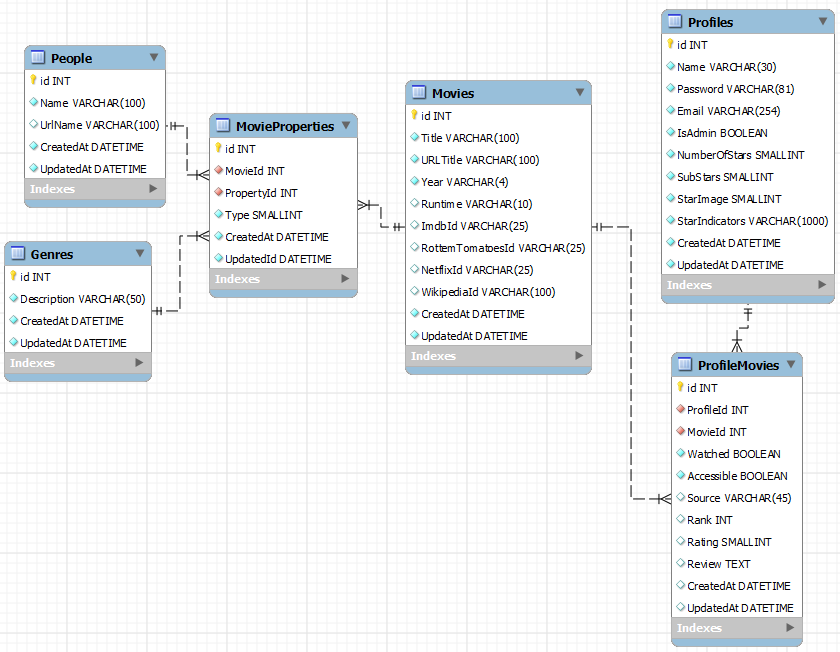
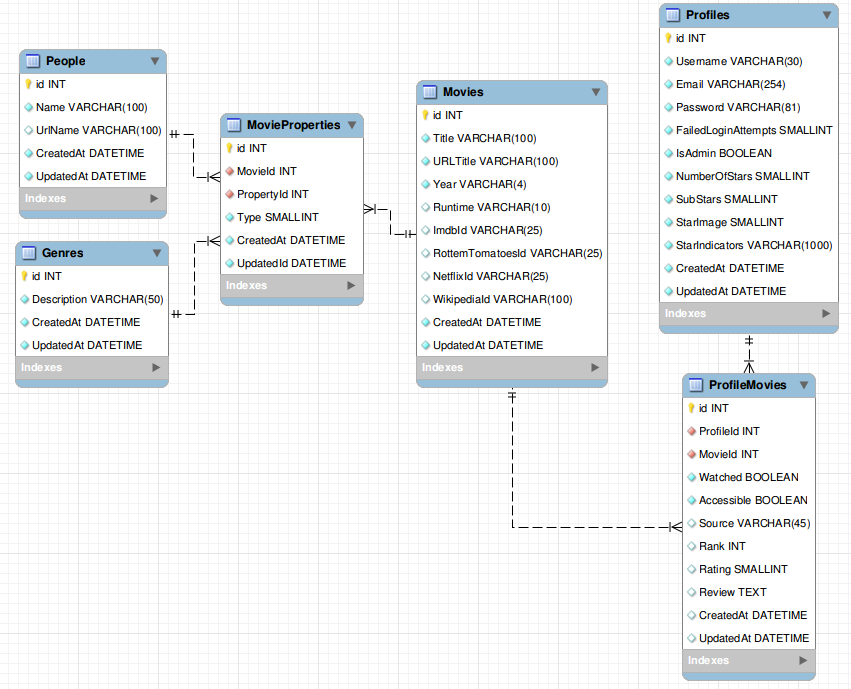
Add lockout support and fix email system

diff --git a/pref/webapp/templates/site/about.html b/pref/webapp/templates/site/about.html
@@ -6,6 +6,7 @@
 	{% include 'includes/header.html' %}
 	{% url webapp.views.site.disclaimers as disclaimers_url %}
 	{% url webapp.views.site.privacy as privacy_url %}
+	<p>Version 1.0</p>
 	<p>This website was created (and currently operated) by <a href="http://www.andyhampton.com" target="_blank">me</a> as a way to supplement countless spreadsheets and individual programs to keep track of the things I love across many mediums. You can find more information about the site and contribute by going to <a href="https://github.com/ahampt/Pref" target="_blank">github</a>.</p>
 	<p>Please make comments and suggestions as you use the site by clicking the appropriate buttons on pages when you see them as I am building this site purely to suffice my own needs until people speak up. Thanks</p>
 	<p>Please read the <a href="{{disclaimers_url}}">disclaimers</a> and <a href="{{privacy_url}}">privacy policy</a> before using the site. Be aware that after 90 days of inactivity, user data is no longer safe and may be deleted or altered unintentionally.</p>
@@ -18,6 +19,7 @@
 		<li><a href="http://twitter.github.com/bootstrap/" target="_blank">Bootstrap</a> - CSS library that makes this site a pleasure to use</a></li>
 		<li><a href="http://www.nickstakenburg.com/projects/starbox/" target="_blank">Starbox</a> - Star rating system that just works</li>
 		<li><a href="http://www.webfaction.com/" target="_blank">Webfaction</a> - Web hosting</li>
+		<li><a href="http://aws.amazon.com/" target="_blank">Amazon</a> - CDN</li>
 		<li><a href="http://www.dhtmlgoodies.com/index.html" target="_blank">DHTML Goodies</a> - Script for drag and drop tools
 		<li>Javascript libraries from <a href="http://jquery.com/" target="_blank">JQuery</a>, <a href="http://www.prototypejs.org/" target="_blank">Prototype</a>, and <a href="http://script.aculo.us/" target="_blank">Scriptaculous</a> for animations of any kind</li>
 		<li>API's from <a href="http://www.imdb.com/" target="_blank">IMDb</a> (API <a href="http://imdbapi.com/" target="_blank">here</a>), <a href="http://www.rottentomatoes.com/" target="_blank">Rotten Tomatoes</a>, and <a href="http://www.netflix.com/" target="_blank">Netflix</a> for all basic data gathering</li>

diff --git a/pref/webapp/templates/profile/login.html b/pref/webapp/templates/profile/login.html
@@ -8,6 +8,10 @@
 		<div class="alert alert-error">
 			Username or Password not correct
 		</div>
+	{% elif lockout_error %}
+		<div class="alert alert-error">
+			Account locked, contact administrator
+		</div>
 	{% endif %}
 	{% url webapp.views.profile.login as login_url %}
 	<form class="well" action="{{login_url}}" method="post"> {% csrf_token %}

diff --git a/pref/webapp/views/profile.py b/pref/webapp/views/profile.py
@@ -32,6 +32,7 @@ def register(request):
 			*****************************************************************************'''
 			# Defaults
 			profile = Profiles()
+			profile.FailedLoginAttempts = 0
 			profile.NumberOfStars = 4
 			profile.SubStars = 2
 			profile.StarImage = 0
@@ -139,8 +140,9 @@ def login(request):
 			# Don't waste time validating rediculously sized password strings
 			text_password = request.POST.get('password')
 			# Use check_password to compare hashed password correctly
-			if len(text_password) < 1000 and check_password(text_password, profile.Password):
+			if profile.FailedLoginAttempts < settings.MAX_LOGIN_ATTEMPTS and len(text_password) < 1000 and check_password(text_password, profile.Password):
 				login_command(request, profile)
+				profile.FailedLoginAttempts = 0
 				profile.save()
 				profile_logger.info(profile.Username + ' Login Success')
 				set_msg(request, 'Welcome back ' + profile.Username + '!', 'You have successfully logged in.', 3)
@@ -148,15 +150,23 @@ def login(request):
 			# Redirect to login if currently logged in (as different profile) or to access otherwise
 			else:
 				profile_logger.info(profile.Username + ' Login Failure')
+				profile.FailedLoginAttempts = profile.FailedLoginAttempts + 1 if profile.FailedLoginAttempts < settings.MAX_LOGIN_ATTEMPTS else profile.FailedLoginAttempts
+				profile.save()
 				logged_in_profile_id = request.session.get('auth_profile_id')
 				logged_in_profile_username = request.session.get('auth_profile_username')
 				logged_in_profile_admin = request.session.get('admin')
 				if not logged_in_profile_id:
 					access = request.session.get('auth_access')
 					if not access:
-						set_msg(request, 'Login Failed!', 'Username or Password not correct', 4)
+						if profile.FailedLoginAttempts < settings.MAX_LOGIN_ATTEMPTS:
+							set_msg(request, 'Login Failed!', 'Username or Password not correct', 5)
+						else:
+							set_msg(request, 'Login Failed!', 'Account locked out. Contact system administrator to unlock account.', 5)
 						return redirect('webapp.views.site.access')
-				return render_to_response('profile/login.html', {'header' : generate_header_dict(request, 'Login'), 'error' : True}, RequestContext(request))
+				if profile.FailedLoginAttempts < settings.MAX_LOGIN_ATTEMPTS:
+					return render_to_response('profile/login.html', {'header' : generate_header_dict(request, 'Login'), 'error' : True}, RequestContext(request))
+				else:
+					return render_to_response('profile/login.html', {'header' : generate_header_dict(request, 'Login'), 'lockout_error' : True}, RequestContext(request))
 		else:
 			'''*****************************************************************************
 			Display login page if logged in or have access otherwise back to access
@@ -326,7 +336,7 @@ def view(request, username):
 				Send suggestion/comment/correction email and redirect to profile page
 				PATH: webapp.views.profile.view username; METHOD: post; PARAMS: get - suggestion; MISC: none;
 				*****************************************************************************'''
-				email_from = profile.Email if profile.Email else settings.DEFAULT_FROM_EMAIL
+				email_from = settings.DEFAULT_FROM_EMAIL
 				email_subject = 'Profile: ' + str(profile.Username) + ' Id: ' + str(profile.id)
 				email_message = request.POST.get('message') if request.POST.get('message') else None
 				set_msg(request, 'Thank you for your feedback!', 'We have recieved your suggestion/comment/correction and will react to it appropriately.', 3)

diff --git a/pref/webapp/views/site.py b/pref/webapp/views/site.py
@@ -65,13 +65,12 @@ def home(request):
 			Error page will submit user email here (could be delegated to an error function)
 			PATH: webapp.views.site.home; METHOD: post; PARAMS: get - error; MISC: none;
 			*****************************************************************************'''
-			profile, email_from, email_subject = None, 'Anonymous', 'Error'
+			profile, email_from, email_subject = None, settings.DEFAULT_FROM_EMAIL, 'Error'
 			try:
 				profile = Profiles.objects.get(id=logged_in_profile_id)
 			except Exception:
 				pass
 			if profile:
-				email_from = profile.Email if profile.Email else settings.DEFAULT_FROM_EMAIL
 				email_subject = 'Profile: ' + str(profile.Username) + ' Id: ' + str(profile.id) + ' Error'
 			email_message = request.POST.get('message') if request.POST.get('message') else None
 			set_msg(request, 'Thank you for your feedback!', 'We have recieved your input and will react to it appropriately.', 3)
@@ -124,13 +123,13 @@ def about(request):
 				PATH: webapp.views.site.about; METHOD: post; PARAMS: none; MISC: none;
 				*****************************************************************************'''
 				profile = Profiles.objects.get(id=logged_in_profile_id)
-				email_from = profile.Email if profile.Email else ''
+				email_from = settings.DEFAULT_FROM_EMAIL
 				email_subject = 'Profile: ' + str(profile.Username) + ' Id: ' + str(profile.id) + ' 404'
 				email_message = request.POST.get('message') if request.POST.get('message') else None
 				set_msg(request, 'Thank you for your feedback!', 'We have recieved your suggestion/comment/correction and will react to it appropriately.', 3)
 				if email_message:
 					# send email
-					pass
+					send_mail(email_subject, email_message, email_from, [settings.DEFAULT_TO_EMAIL], fail_silently=False)
 				else:
 					pass
 				return redirect('webapp.views.site.home')

diff --git a/pref/webapp/views/property.py b/pref/webapp/views/property.py
@@ -89,7 +89,7 @@ def person(request, urlname):
 				PATH: webapp.views.property.person urlname; METHOD: post; PARAMS: get - suggestion; MISC: none;
 				*****************************************************************************'''
 				profile = Profiles.objects.get(id=logged_in_profile_id)
-				email_from = profile.Email if profile.Email else settings.DEFAULT_FROM_EMAIL
+				email_from = settings.DEFAULT_FROM_EMAIL
 				email_subject = 'Profile: ' + str(profile.Username) + ' Id: ' + str(profile.id) + ' PersonId: ' + str(person.id)
 				email_message = request.POST.get('message') if request.POST.get('message') else None
 				set_msg(request, 'Thank you for your feedback!', 'We have recieved your suggestion/comment/correction and will react to it appropriately.', 3)
@@ -295,7 +295,7 @@ def genre(request, description):
 				PATH: webapp.views.property.genre description; METHOD: post; PARAMS: get - suggestion; MISC: none;
 				*****************************************************************************'''
 				profile = Profiles.objects.get(id=logged_in_profile_id)
-				email_from = profile.Email if profile.Email else settings.DEFAULT_FROM_EMAIL
+				email_from = settings.DEFAULT_FROM_EMAIL
 				email_subject = 'Profile: ' + str(profile.Username) + ' Id: ' + str(profile.id) + ' GenreId: ' + str(genre.id)
 				email_message = request.POST.get('message') if request.POST.get('message') else None
 				set_msg(request, 'Thank you for your feedback!', 'We have recieved your suggestion/comment/correction and will react to it appropriately.', 3)

diff --git a/pref/webapp/views/movie.py b/pref/webapp/views/movie.py
@@ -335,7 +335,7 @@ def view(request, urltitle):
 				PATH: webapp.views.movie.view urltitle; METHOD: post; PARAMS: get - suggestion; MISC: none;
 				*****************************************************************************'''
 				profile = Profiles.objects.get(id=logged_in_profile_id)
-				email_from = profile.Email if profile.Email else settings.DEFAULT_FROM_EMAIL
+				email_from = settings.DEFAULT_FROM_EMAIL
 				email_subject = 'Profile: ' + str(profile.Username) + ' Id: ' + str(profile.id) + ' MovieId: ' + str(movie.id)
 				email_message = request.POST.get('message') if request.POST.get('message') else None
 				set_msg(request, 'Thank you for your feedback!', 'We have recieved your suggestion/comment/correction and will react to it appropriately.', 3)

diff --git a/pref/webapp/models.py b/pref/webapp/models.py
@@ -7,6 +7,7 @@ class Profiles(models.Model):
 	Username = models.CharField(max_length=30,unique=True)
 	Email = models.CharField(max_length=254)
 	Password = models.CharField(max_length=81)
+	FailedLoginAttempts = models.PositiveSmallIntegerField()
 	IsAdmin = models.BooleanField()
 	NumberOfStars = models.PositiveSmallIntegerField()
 	SubStars = models.PositiveSmallIntegerField()

diff --git a/pref/settings.py b/pref/settings.py
@@ -7,6 +7,8 @@ TEMPLATE_DEBUG = DEBUG
 
 ACCESS_PASSWORD = 'movies'
 
+MAX_LOGIN_ATTEMPTS = 25
+
 DATABASES = {
 	'default': {
 		'ENGINE': 'django.db.backends.mysql',
